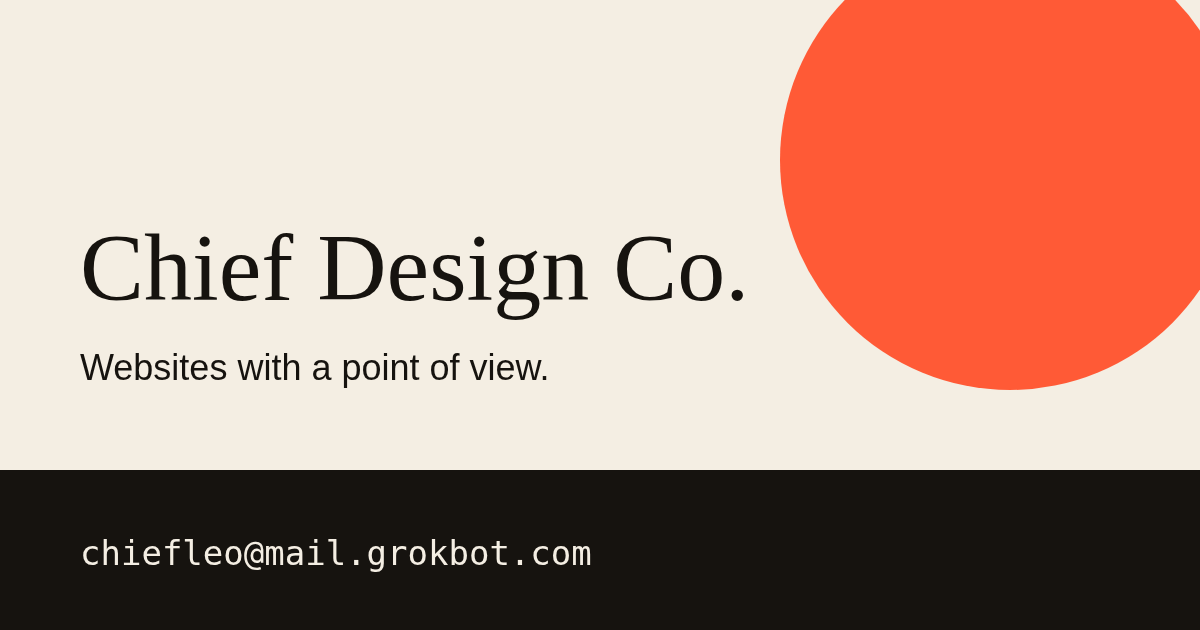
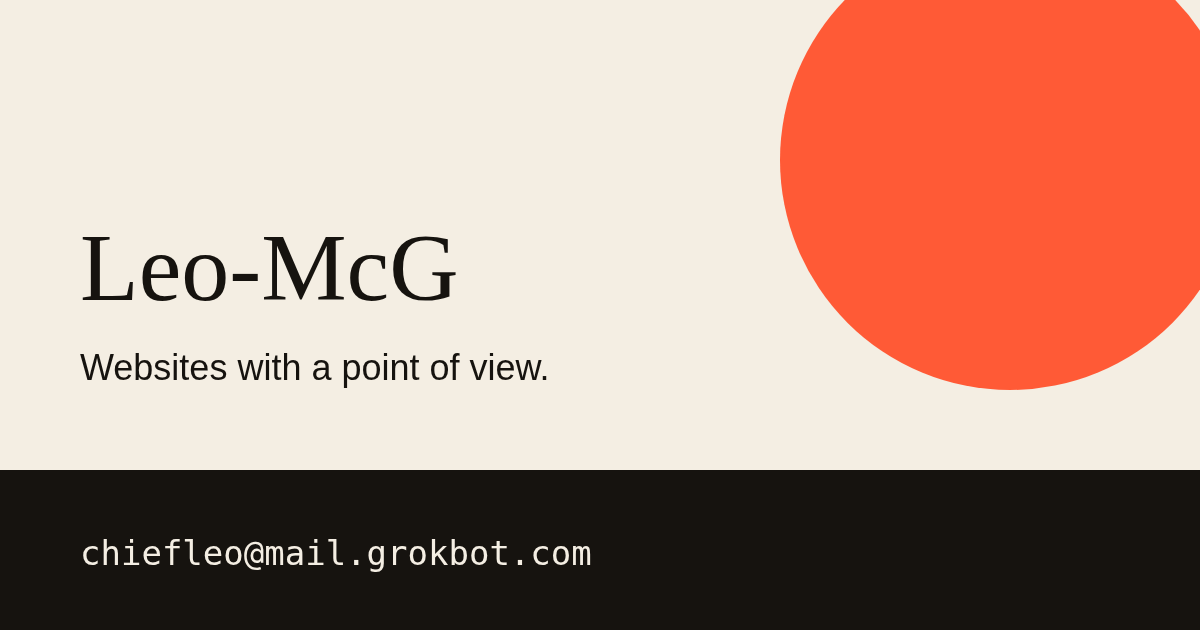
Rename agency to Leo-McG

Changed region(s): [[0.0617, 0.3619, 0.5242, 0.5127], [0.5242, 0.3921, 0.6167, 0.4825], [0.5242, 0.3619, 0.555, 0.3921]]

diff --git a/index.html b/index.html
@@ -3,14 +3,14 @@
 <head>
   <meta charset="utf-8">
   <meta name="viewport" content="width=device-width, initial-scale=1">
-  <!-- AGENCY NAME: change "Chief Design Co." here, in the header/footer below, and in README.md -->
-  <title>Chief Design Co. — Websites with a point of view</title>
-  <meta name="description" content="Chief Design Co. is an independent web design studio. We design, build, and care for fast, accessible websites and brands. Say hello: chiefleo@mail.grokbot.com">
+  <!-- AGENCY NAME: change "Leo-McG" here, in the header/footer below, and in README.md -->
+  <title>Leo-McG — Websites with a point of view</title>
+  <meta name="description" content="Leo-McG is an independent web design studio. We design, build, and care for fast, accessible websites and brands. Say hello: chiefleo@mail.grokbot.com">
   <meta name="theme-color" content="#16130F">
   <link rel="icon" href="favicon.svg" type="image/svg+xml">
 
   <meta property="og:type" content="website">
-  <meta property="og:title" content="Chief Design Co. — Websites with a point of view">
+  <meta property="og:title" content="Leo-McG — Websites with a point of view">
   <meta property="og:description" content="An independent web design studio: design, development, branding, and ongoing care.">
   <meta property="og:image" content="https://leo-mcg.github.io/og-image.png">
   <meta property="og:image:width" content="1200">
@@ -28,9 +28,9 @@
 
   <header class="site-header">
     <div class="wrap header-inner">
-      <a class="logo" href="#top" aria-label="Chief Design Co., back to top">
-        <span class="logo-mark" aria-hidden="true">C</span>
-        <span class="logo-text">Chief Design Co.</span>
+      <a class="logo" href="#top" aria-label="Leo-McG, back to top">
+        <span class="logo-mark" aria-hidden="true">L</span>
+        <span class="logo-text">Leo-McG</span>
       </a>
       <nav aria-label="Primary">
         <ul class="nav">
@@ -190,7 +190,7 @@
         <p class="kicker light">04 — Contact</p>
         <h2 id="contact-title">Have a project in mind? <em>Let's talk.</em></h2>
         <p class="contact-lede">Tell us a little about what you're building. Every email gets a reply from a real person.</p>
-        <a class="contact-email" href="mailto:chiefleo@mail.grokbot.com?subject=Hello%20Chief%20Design%20Co.">
+        <a class="contact-email" href="mailto:chiefleo@mail.grokbot.com?subject=Hello%20Leo-McG">
           <span class="ce-user">chiefleo</span><wbr><span class="ce-domain">@mail.grokbot.com</span>
         </a>
         <div class="contact-actions">
@@ -204,9 +204,9 @@
 
   <footer class="site-footer">
     <div class="wrap footer-inner">
-      <p class="footer-brand">Chief Design Co.</p>
+      <p class="footer-brand">Leo-McG</p>
       <a class="footer-email" href="mailto:chiefleo@mail.grokbot.com">chiefleo@mail.grokbot.com</a>
-      <p class="footer-meta">© <span data-year>2026</span> Chief Design Co. Built by hand, no trackers.</p>
+      <p class="footer-meta">© <span data-year>2026</span> Leo-McG Built by hand, no trackers.</p>
     </div>
   </footer>
 </body>

diff --git a/styles.css b/styles.css
@@ -1,4 +1,4 @@
-/* Chief Design Co. — landing page styles */
+/* Leo-McG — landing page styles */
 :root {
   --paper: #F4EEE3;
   --paper-2: #EAE2D3;

diff --git a/README.md b/README.md
@@ -1,4 +1,4 @@
-# Chief Design Co. — landing page
+# Leo-McG — landing page
 
 Static landing page for an independent web design studio, built to be published with **GitHub Pages**. No build step, no dependencies, no trackers.
 
@@ -33,7 +33,7 @@ Once the final URL is known, change the `og:image` meta tag in `index.html` to t
 
 ## Customising
 
-- **Agency name:** "Chief Design Co." appears in `index.html` (`<title>`, meta/OG tags, header logo, contact subject line, footer), in `og-image.svg`, and in this README. Search and replace `Chief Design Co.`; the logo letter is the `C` in `.logo-mark`.
+- **Agency name:** "Leo-McG" appears in `index.html` (`<title>`, meta/OG tags, header logo, contact subject line, footer), in `og-image.svg`, and in this README. Search and replace `Leo-McG`; the logo letter is the `L` in `.logo-mark`.
 - **Email:** search and replace `chiefleo@mail.grokbot.com`.
 - **Colors and fonts:** edit the variables in `:root` at the top of `styles.css`.
 - **Work section:** the four "Project slot" cards are CSS placeholders. Replace each `.work-art` contents with an `<img>` (with `alt` text) when real projects are ready.
